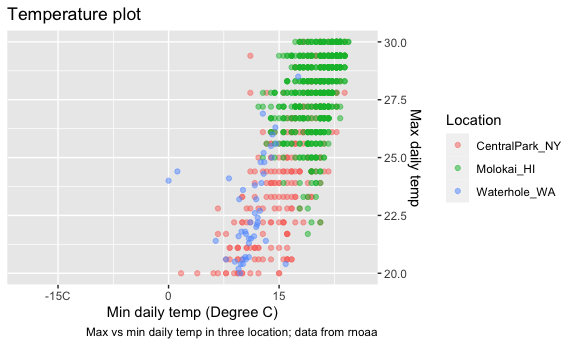
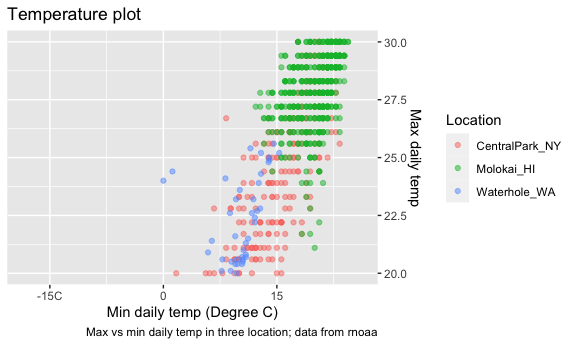
Viz II finish Class

diff --git a/Viz-Part-II.md b/Viz-Part-II.md
@@ -18,6 +18,8 @@ library(tidyverse)
     ## ℹ Use the conflicted package (<http://conflicted.r-lib.org/>) to force all conflicts to become errors
 
 ``` r
+library(patchwork)
+
 knitr::opts_chunk$set(
   fig.width = 6,
   fig.asp = .6,
@@ -30,8 +32,8 @@ weather_df =
   rnoaa::meteo_pull_monitors(
     c("USW00094728", "USW00022534", "USS0023B17S"),
     var = c("PRCP", "TMIN", "TMAX"), 
-    date_min = "2021-01-01",
-    date_max = "2022-12-31") |>
+    date_min = "2022-01-01",
+    date_max = "2023-12-31") |>
   mutate(
     name = recode(
       id, 
@@ -61,6 +63,8 @@ weather_df =
 
     ## file min/max dates: 1999-09-01 / 2023-09-30
 
+This results in a dataframe with 1914observations on six variables.
+
 ## same plot from last time
 
 ``` r
@@ -76,7 +80,7 @@ weather_df |>
   )
 ```
 
-    ## Warning: Removed 17 rows containing missing values (`geom_point()`).
+    ## Warning: Removed 30 rows containing missing values (`geom_point()`).
 
 <img src="Viz-Part-II_files/figure-gfm/unnamed-chunk-3-1.png" width="90%" />
 
@@ -101,7 +105,7 @@ weather_df |>
   )
 ```
 
-    ## Warning: Removed 1227 rows containing missing values (`geom_point()`).
+    ## Warning: Removed 1106 rows containing missing values (`geom_point()`).
 
 <img src="Viz-Part-II_files/figure-gfm/unnamed-chunk-4-1.png" width="90%" />
 
@@ -146,8 +150,206 @@ weather_df |>
   viridis:: scale_color_viridis(discrete = TRUE)
 ```
 
-    ## Warning: Removed 17 rows containing missing values (`geom_point()`).
+    ## Warning: Removed 30 rows containing missing values (`geom_point()`).
 
 <img src="Viz-Part-II_files/figure-gfm/unnamed-chunk-6-1.png" width="90%" />
 
 ## themes
+
+`theme_minimal`, `theme_bw`, `theme_classic`
+
+``` r
+weather_df |>
+  ggplot(aes(x = tmin, y = tmax, color = name)) +
+  geom_point(alpha = .5) +
+  labs(
+    title = "Temperature plot",
+    x = "Min daily temp (Degree C)",
+    y = "Max daily temp",
+    color = "Location",
+    caption = "Max vs min daily temp in three location; data from rnoaa"
+  ) +
+  viridis:: scale_color_viridis(discrete = TRUE)+
+  theme_minimal() + 
+  theme(legend.position = "bottom")
+```
+
+    ## Warning: Removed 30 rows containing missing values (`geom_point()`).
+
+<img src="Viz-Part-II_files/figure-gfm/unnamed-chunk-7-1.png" width="90%" />
+
+## data argument …
+
+``` r
+weather_df |>
+  ggplot(aes(x = date, y = tmax, color = name)) +
+  geom_point(aes(color = name)) +
+  geom_smooth()
+```
+
+    ## `geom_smooth()` using method = 'loess' and formula = 'y ~ x'
+
+    ## Warning: Removed 30 rows containing non-finite values (`stat_smooth()`).
+
+    ## Warning: Removed 30 rows containing missing values (`geom_point()`).
+
+<img src="Viz-Part-II_files/figure-gfm/unnamed-chunk-8-1.png" width="90%" />
+
+``` r
+nyc_weather_df = 
+  weather_df |>
+  filter(name == "CentralPark_NY")
+
+hawaii_weather_df = 
+  weather_df |>
+  filter(name == "Molokai_HI")
+
+ggplot(nyc_weather_df, aes(x = date, y = tmax, color = name)) +
+  geom_point()+
+  geom_line(data = hawaii_weather_df)
+```
+
+    ## Warning: Removed 5 rows containing missing values (`geom_point()`).
+
+    ## Warning: Removed 5 rows containing missing values (`geom_line()`).
+
+<img src="Viz-Part-II_files/figure-gfm/unnamed-chunk-8-2.png" width="90%" />
+
+## `patchwork`
+
+``` r
+weather_df |>
+  ggplot(aes(x = date, y = tmax, color = name)) +
+  geom_point() +
+  facet_grid(. ~ name)
+```
+
+    ## Warning: Removed 30 rows containing missing values (`geom_point()`).
+
+<img src="Viz-Part-II_files/figure-gfm/unnamed-chunk-9-1.png" width="90%" />
+
+make to different ggplots and put them side by side
+
+``` r
+ggp_temp_scatter = 
+  weather_df |>
+  ggplot(aes(x = tmin, y = tmax, color = name))+
+  geom_point(alpha = .5) +
+  theme(legend.position = "bottom")
+
+ggp_prcp_density = 
+  weather_df |>
+  filter(prcp> 25) |>
+  ggplot(aes(x = prcp, fill = name)) +
+  geom_density(alpha = .5) +
+  theme(legend.position = "bottom")
+
+ggp_tmax_date = 
+  weather_df |>
+  ggplot(aes(x = date, y = tmax, color = name)) +
+  geom_point() +
+  geom_smooth(se = FALSE) +
+  theme(legend.position = "bottom")
+
+(ggp_temp_scatter + ggp_prcp_density) / ggp_tmax_date
+```
+
+    ## Warning: Removed 30 rows containing missing values (`geom_point()`).
+
+    ## `geom_smooth()` using method = 'loess' and formula = 'y ~ x'
+
+    ## Warning: Removed 30 rows containing non-finite values (`stat_smooth()`).
+    ## Removed 30 rows containing missing values (`geom_point()`).
+
+<img src="Viz-Part-II_files/figure-gfm/unnamed-chunk-10-1.png" width="90%" />
+
+## data manipulation
+
+``` r
+weather_df |>
+  mutate(
+    name = fct_relevel(name, c("Molokai_HI", "CentralPark_NY", "Waterhole_WA"))
+  )|>
+  ggplot(aes(x = name, y = tmax)) +
+  geom_boxplot()
+```
+
+    ## Warning: Removed 30 rows containing non-finite values (`stat_boxplot()`).
+
+<img src="Viz-Part-II_files/figure-gfm/unnamed-chunk-11-1.png" width="90%" />
+
+``` r
+weather_df |>
+  mutate(
+    name = fct_reorder(name, tmax)
+  )|>
+  ggplot(aes(x = name, y = tmax, color = name)) +
+  geom_violin()
+```
+
+    ## Warning: There was 1 warning in `mutate()`.
+    ## ℹ In argument: `name = fct_reorder(name, tmax)`.
+    ## Caused by warning:
+    ## ! `fct_reorder()` removing 30 missing values.
+    ## ℹ Use `.na_rm = TRUE` to silence this message.
+    ## ℹ Use `.na_rm = FALSE` to preserve NAs.
+
+    ## Warning: Removed 30 rows containing non-finite values (`stat_ydensity()`).
+
+<img src="Viz-Part-II_files/figure-gfm/unnamed-chunk-11-2.png" width="90%" />
+
+character varialbe does not have order, factor variable does have order
+ggplot convert character variable into factor in alphabetical order
+
+## complicate FAS plot
+
+``` r
+litters_df = 
+  read_csv("data/FAS_litters.csv") |>
+  janitor::clean_names() |>
+  separate(group, into = c("dose", "day_of_tx"), sep = 3)
+```
+
+    ## Rows: 49 Columns: 8
+    ## ── Column specification ────────────────────────────────────────────────────────
+    ## Delimiter: ","
+    ## chr (2): Group, Litter Number
+    ## dbl (6): GD0 weight, GD18 weight, GD of Birth, Pups born alive, Pups dead @ ...
+    ## 
+    ## ℹ Use `spec()` to retrieve the full column specification for this data.
+    ## ℹ Specify the column types or set `show_col_types = FALSE` to quiet this message.
+
+``` r
+pups_df = 
+  read_csv("data/FAS_pups.csv") |>
+  janitor::clean_names()
+```
+
+    ## Rows: 313 Columns: 6
+    ## ── Column specification ────────────────────────────────────────────────────────
+    ## Delimiter: ","
+    ## chr (1): Litter Number
+    ## dbl (5): Sex, PD ears, PD eyes, PD pivot, PD walk
+    ## 
+    ## ℹ Use `spec()` to retrieve the full column specification for this data.
+    ## ℹ Specify the column types or set `show_col_types = FALSE` to quiet this message.
+
+``` r
+fas_df = 
+  left_join(pups_df, litters_df, by = "litter_number")
+
+fas_df |>
+  select(dose, day_of_tx, starts_with("pd")) |>
+  pivot_longer(
+    pd_ears:pd_walk,
+    names_to = "outcome",
+    values_to = "pn_day"
+  )|>
+  drop_na()|>
+  mutate(outcome = fct_reorder(outcome, pn_day)) |>
+  ggplot(aes(x = dose, y = pn_day)) +
+  geom_violin() +
+  facet_grid(day_of_tx ~ outcome)
+```
+
+<img src="Viz-Part-II_files/figure-gfm/unnamed-chunk-12-1.png" width="90%" />
